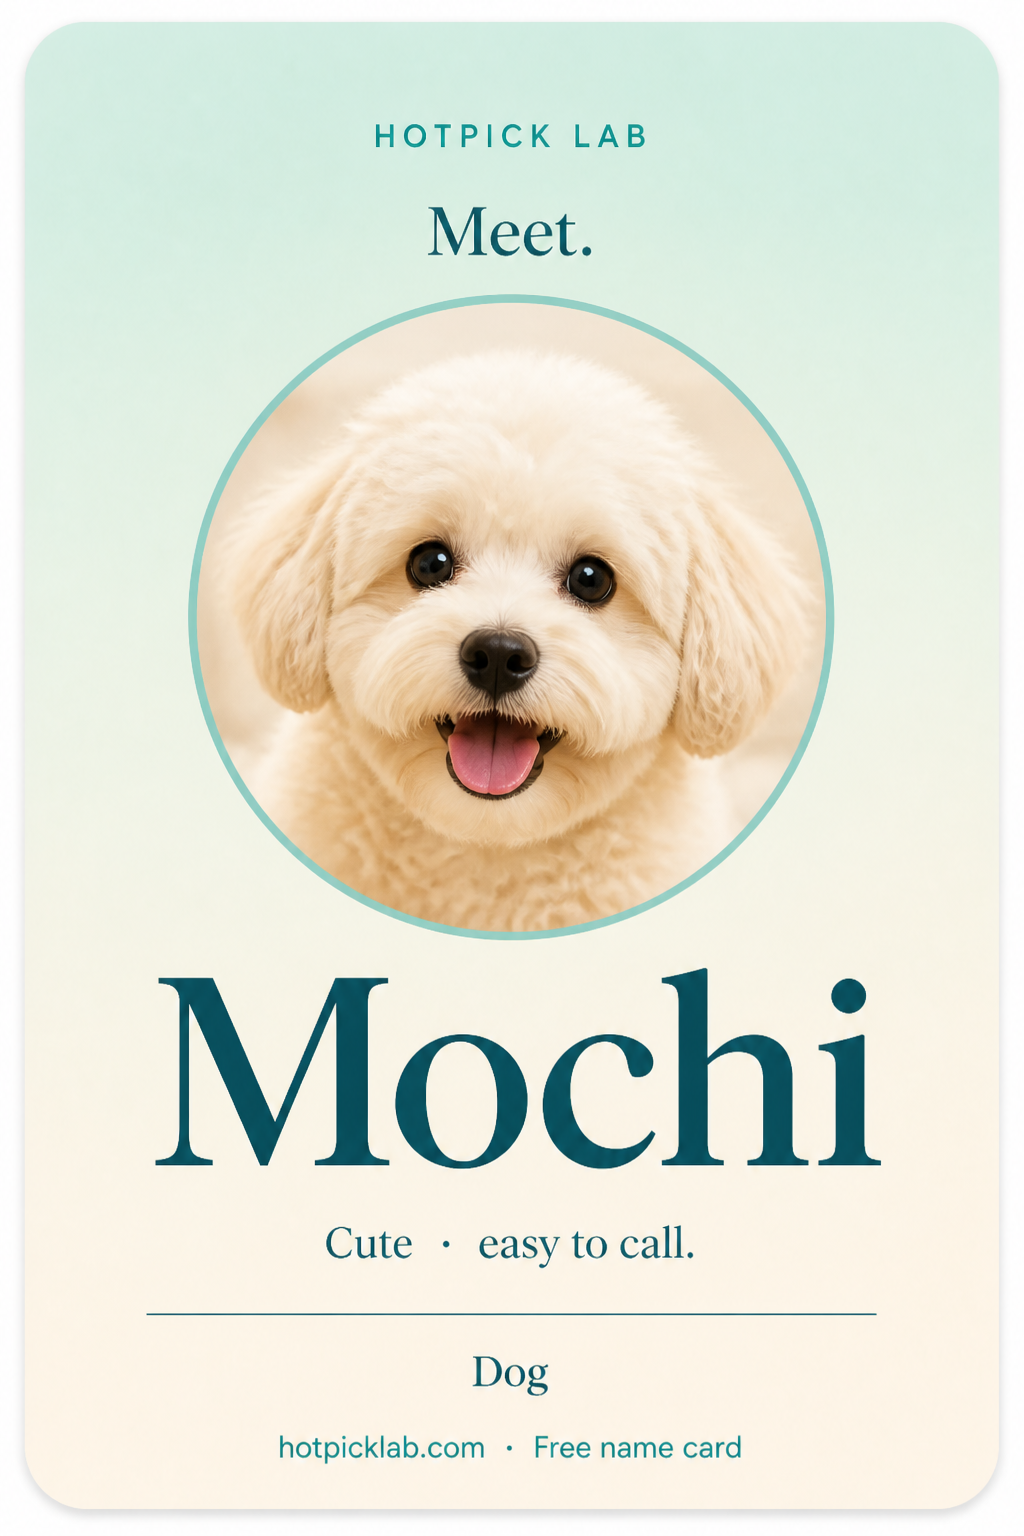
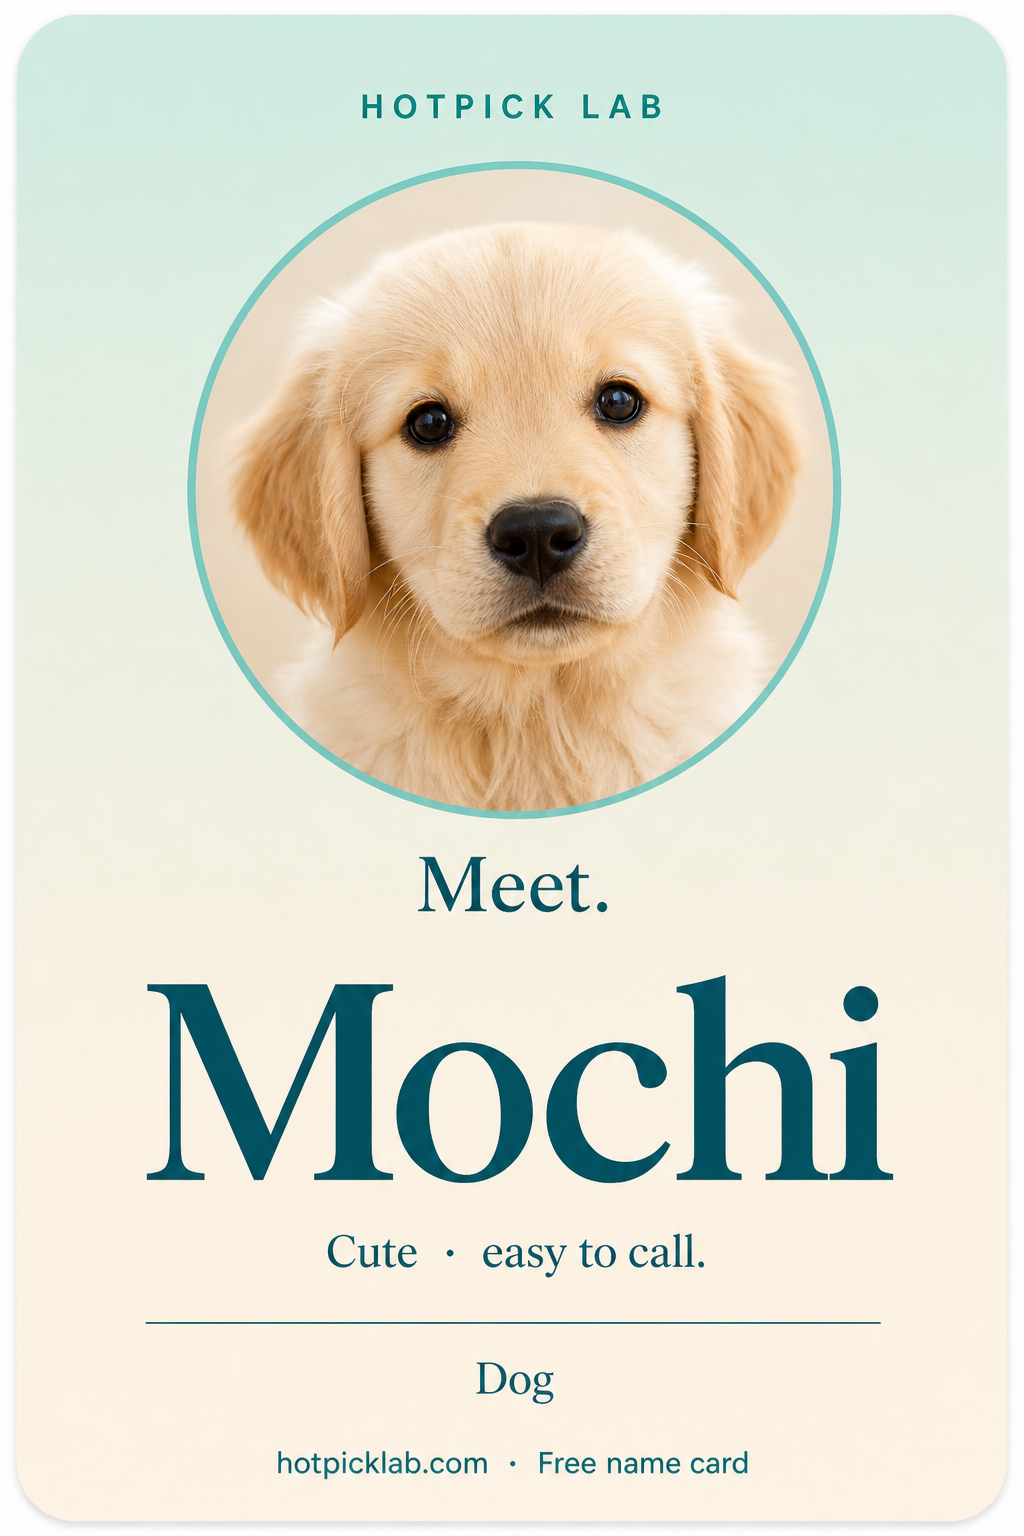
Put Meet below the photo so it is not covered by the circle.

diff --git a/src/lib/naming/name-card.ts b/src/lib/naming/name-card.ts
@@ -151,8 +151,9 @@ export async function drawNameIdentityCard(
 
   const name = (opts.name || 'Name').trim() || 'Name';
   const hasPhoto = Boolean(opts.photoUrl);
-  const photoRadius = 210;
-  const photoCy = 360;
+  // With photo: brand → circle → Meet → name (Meet must sit below the circle, not over fur)
+  const photoRadius = 200;
+  const photoCy = 330;
 
   if (hasPhoto && opts.photoUrl) {
     try {
@@ -167,15 +168,16 @@ export async function drawNameIdentityCard(
   ctx.font = '700 28px "IBM Plex Sans", system-ui, sans-serif';
   ctx.textAlign = 'center';
   ctx.letterSpacing = '6px';
-  ctx.fillText('HOTPICK LAB', w / 2, hasPhoto ? 120 : 180);
+  ctx.fillText('HOTPICK LAB', w / 2, hasPhoto ? 100 : 180);
 
   ctx.fillStyle = '#4a5f5a';
-  ctx.font = '500 30px "IBM Plex Sans", system-ui, sans-serif';
+  ctx.font = '500 32px "IBM Plex Sans", system-ui, sans-serif';
   ctx.letterSpacing = '0';
-  // Announce voice for sharing — not product marketing
-  ctx.fillText('Meet', w / 2, hasPhoto ? 170 : 250);
+  // No-photo: Meet above the name. With-photo: Meet under the circle.
+  const meetY = hasPhoto ? photoCy + photoRadius + 52 : 250;
+  ctx.fillText('Meet', w / 2, meetY);
 
-  const nameY = hasPhoto ? 680 : 560;
+  const nameY = hasPhoto ? meetY + 90 : 560;
   const nameSize = fitNameFont(ctx, name, w - 140);
   ctx.fillStyle = '#1f6f63';
   ctx.font = `700 ${nameSize}px Georgia, "Times New Roman", serif`;
